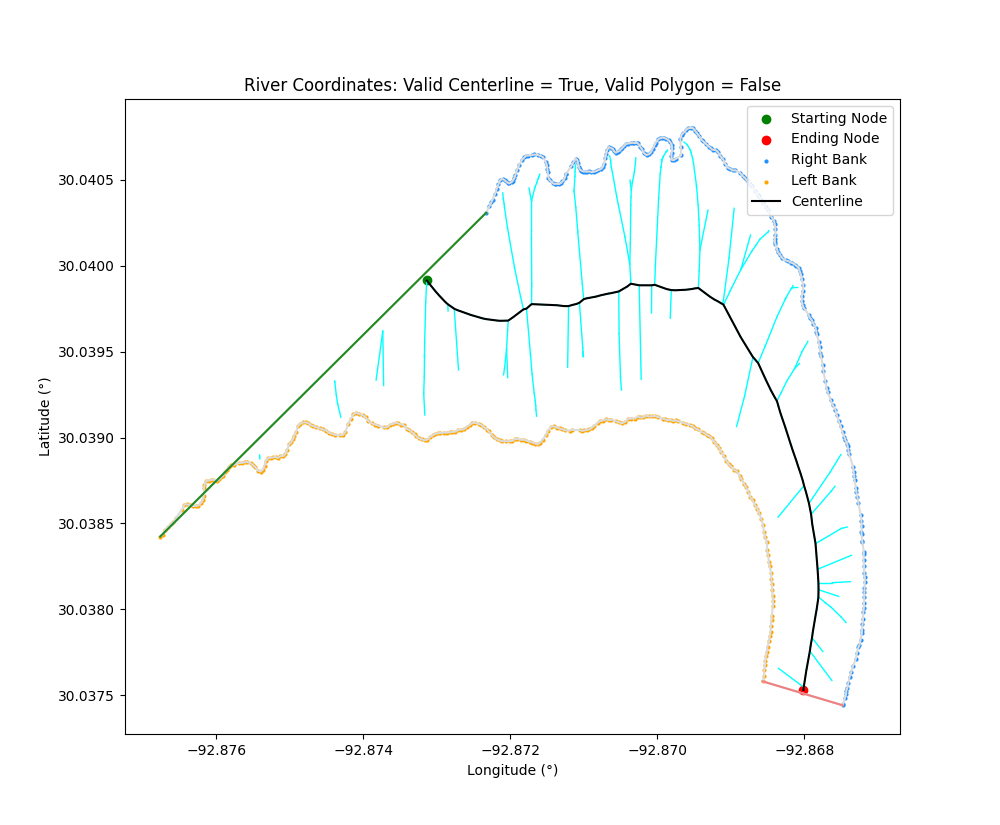
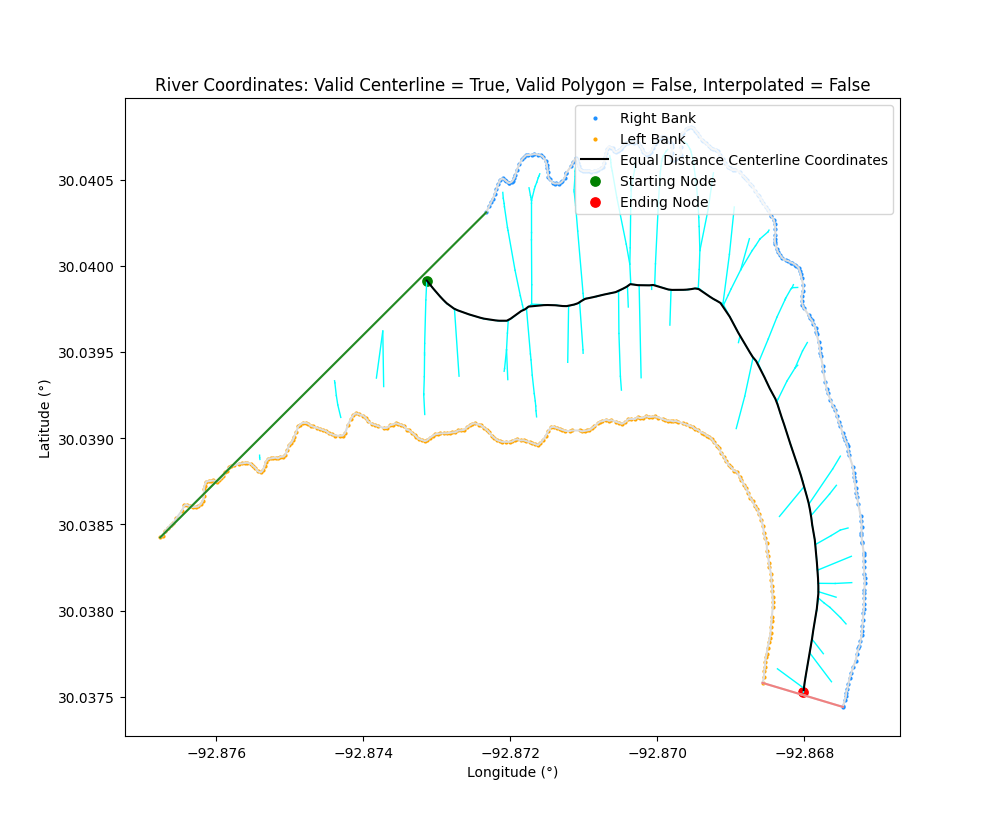
centerline 'scatter zorder on top of paths

diff --git a/centerline_width/plotDiagrams.py b/centerline_width/plotDiagrams.py
@@ -73,7 +73,7 @@ def plotCenterlineBackend(river_object=None,
 				for k, v in centerline_coordinates_by_type:
 					x.append(k)
 					y.append(v)
-				plt.scatter(x, y, c=centerline_color, label=centerline_legend, s=8)
+				plt.scatter(x, y, c=centerline_color, label=centerline_legend, s=8, zorder=10)
 
 	# Dynamically assign the starting and ending
 	if river_object.starting_node is not None: # error handling for when data is too small to generate centerline coordiantes
